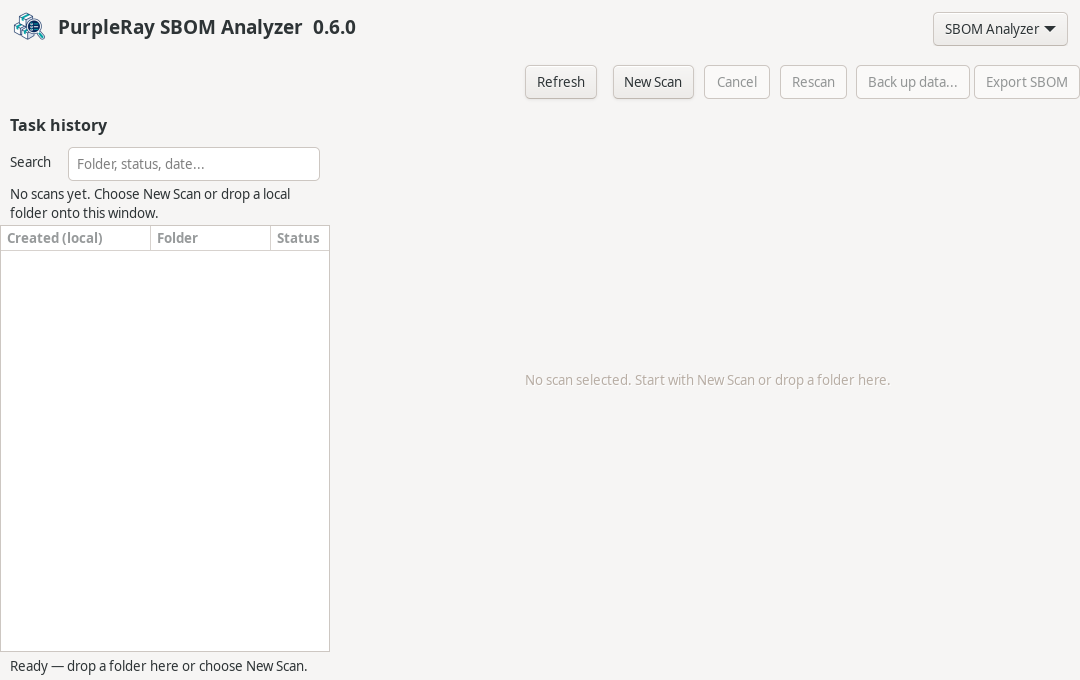
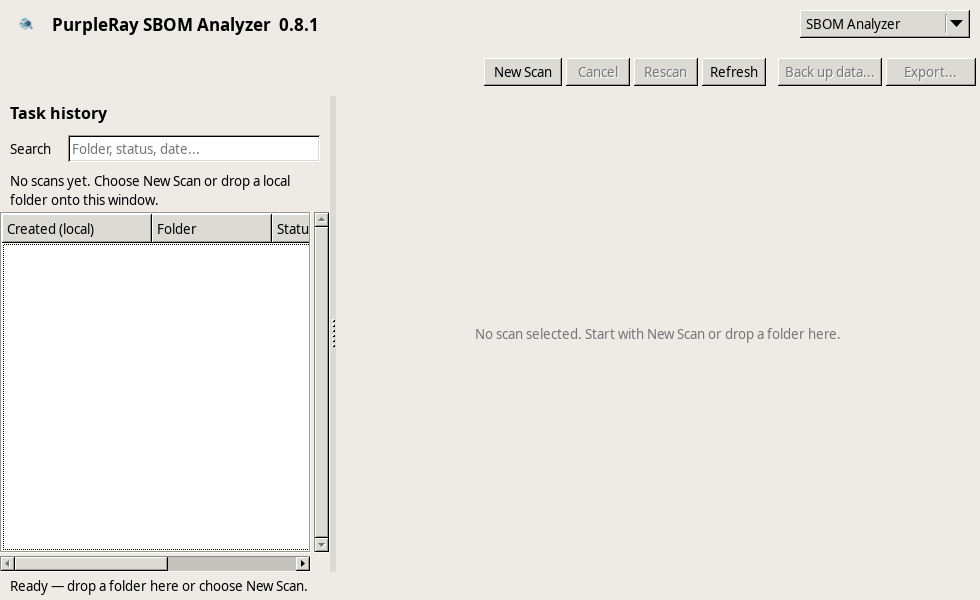
fix: update ui

diff --git a/README.md b/README.md
@@ -9,7 +9,7 @@ after the inventory SBOM has been written; it is unchecked again every time.
 Its native parsers read each artifact through one verified, size-bounded input;
 the application never downloads or requires a separate scanner.
 
-Published builds support Windows x64 and Linux x64 (GTK3), including Linux
+Published builds support Windows x64 and Linux x64 (GTK2), including Linux
 under WSL2 with WSLg. The Cocoa code and packaging are experimental and
 unshipped: macOS has no current release, launcher, or support claim.
 
@@ -39,8 +39,9 @@ package, then install it:
   `sha256sum`, extract it, and run the executable from the extracted directory.
 - **WSL2:** use the Linux tar package from a WSL2 distribution with WSLg.
 
-The Linux build requires x86-64, glibc 2.34 or newer, GTK3, and a working
-Wayland or X11 display. The optional online OSV.dev check additionally needs
+The Linux build requires x86-64, glibc 2.34 or newer, GTK2, and a working X11
+display. WSLg supplies that display through its XWayland compatibility layer.
+The optional online OSV.dev check additionally needs
 the OpenSSL 3 runtime and a system CA certificate store; the Debian package
 declares those dependencies. WSL2 additionally requires WSLg. macOS builds are
 not currently shipped.
@@ -342,11 +343,11 @@ clean bill of health.
 
 The reproducible CI toolchain is Free Pascal 3.2.2 and Lazarus 4.8. On a clean
 Ubuntu x64 WSL2 installation, install the same official Lazarus release and the
-GTK3 development headers with:
+GTK2 development headers with:
 
 ```bash
 sudo apt-get update
-sudo apt-get install --yes ca-certificates curl libgtk-3-dev
+sudo apt-get install --yes ca-certificates curl libgtk2.0-dev
 
 toolchain_directory=$(mktemp -d)
 cd "$toolchain_directory"
@@ -380,7 +381,7 @@ The explicit equivalent build command is:
 ```bash
 lazbuild -B \
   --build-mode=Release \
-  --widgetset=gtk3 \
+  --widgetset=gtk2 \
   src/purpleray_sbom_analyzer.lpi
 ```
 
@@ -391,8 +392,8 @@ WSLg with:
 build/release/purpleray-sbom-analyzer
 ```
 
-WSLg normally sets `WAYLAND_DISPLAY` and `DISPLAY` automatically. If neither is
-present, update WSL from Windows with `wsl --update`, restart it with
+WSLg normally sets `DISPLAY` for its XWayland bridge automatically. If it is
+absent, update WSL from Windows with `wsl --update`, restart it with
 `wsl --shutdown`, and open the WSL workspace again.
 
 To use the Lazarus IDE, open the repository through VS Code's **WSL: Open Folder
@@ -402,7 +403,9 @@ in WSL** command, then run:
 lazarus src/purpleray_sbom_analyzer.lpi
 ```
 
-Select the GTK3 widgetset for a Linux build. The lightweight application shell,
+Select the GTK2 widgetset for a Linux build. This is the supported Linux/WSL2
+target because it avoids the Lazarus GTK3 Wayland scaling and native-dialog
+failures seen under WSLg. The lightweight application shell,
 SBOM Analyzer workspace, Compare Scans workspace, and scan-settings dialog are
 stored as the human-readable `src/uMainForm.lfm`,
 `src/uSBOMAnalyzerFrame.lfm`, `src/uCompareScansFrame.lfm`, and
@@ -769,8 +772,9 @@ appropriately using the citation above.
   provenance, but they do not establish a trusted Windows publisher.
 - The Cocoa target remains experimental source scaffolding. There is no current
   macOS build, release, launcher, signing/notarization, or support commitment.
-- Lazarus's GTK3 backend can emit non-fatal layout diagnostics with some GTK
-  themes or WSLg versions; these do not indicate that scanning has failed.
+- Linux and WSL2 releases use Lazarus's GTK2 backend. GTK3 builds are not a
+  supported release target because current Lazarus GTK3/WSLg combinations can
+  mis-scale windows, hide modal file choosers, and emit backend criticals.
 - Shared-library analysis is static. Direct declarations are read from ELF,
   PE, and Mach-O binaries, but the scanner does not invoke a loader, execute
   targets, resolve libraries to host-specific absolute paths, or infer every

diff --git a/docs/sprints/sprint-08-advanced-analysis.md b/docs/sprints/sprint-08-advanced-analysis.md
@@ -106,3 +106,47 @@ Until those rows are closed with exact evidence, Sprint 8 must not be labelled
 fully accepted or released. Point-in-time OSV matches remain non-exploitability
 advisory evidence, BSI output remains readiness-only, and macOS/signing/WinGet
 submission remain outside this acceptance claim.
+
+## 2026-08-21 WSL2 UI correction candidate
+
+This later maintenance run invalidated the historical GTK3 UI acceptance
+claim. A real WSLg launch on the current mixed-DPI desktop reproduced the
+operator report before any fix:
+
+- Lazarus 4.8 GTK3 reported 170 runtime PPI for the 96-PPI LFM and realized the
+  1080×680 shell as 1452×921 on a 1440×900 logical monitor.
+- startup emitted the reported GLib, Gtk, and Gdk criticals in Lazarus GTK3
+  widget internals;
+- New Scan entered the expected modal loop, but its 1096×822 folder chooser
+  had no transient parent. The blocked main form could therefore appear hung
+  when WSLg placed the chooser behind it or on another monitor.
+
+The candidate correction changes the supported Linux build to Lazarus GTK2 on
+X11/XWayland, reduces the main design to 980×600 with a 720×440 minimum, and
+keeps GTK3 only as an unsupported manual build target. The measured WSLg shell
+is 32.5% narrower and 34.9% shorter than the failing realized window.
+
+Local validation on Lazarus 4.8 and FPC 3.2.2 completed the following against
+the corrected working tree:
+
+- GTK2 Release build: pass; the executable links `libgtk-x11-2.0.so.0` and not
+  `libgtk-3.so.0`.
+- WSLg at normal scale and `GDK_SCALE=2`: exact 980×600 shell; no implicit
+  scaling, clipping, or maximization.
+- real pointer New Scan flow: 780×585 transient-parented chooser, Cancel,
+  immediate reopen, folder selection, 620×500 transient settings dialog,
+  Start scan, persisted completed history/SBOM, Analyzer/Compare switching,
+  and responsive controls after completion.
+- the same production flow under `G_DEBUG=fatal-warnings`: zero stderr
+  diagnostics; no GLib, Gtk, or Gdk warning/critical was tolerated.
+- permanent Linux suite: 86 registered, 85 passed, 0 failed, 1 Windows-only
+  skip.
+- Linux packaging: pass with the declared portable dependency
+  `libgtk2.0-0`; packaging rejects an accidentally GTK3-linked binary.
+- version consistency: root, Pascal fallback, and Lazarus metadata all report
+  `0.8.1`.
+
+The privacy-safe application screenshot was refreshed to the measured compact
+shell. This section records local candidate evidence only. Delivery still
+requires a commit and push, and the native Windows/CI matrix must pass before
+the correction can close Sprint 8 acceptance or support a release.

diff --git a/docs/sprints/README.md b/docs/sprints/README.md
@@ -24,7 +24,7 @@ is not treated as a pass.
 | 5 | Scan comparison | Accepted and released | [`v0.6.0`](https://github.com/aidamian/PurpleRay_SBOM_Analyzer/releases/tag/v0.6.0) | [Sprint 5](sprint-05-scan-comparison.md) |
 | 6 | CLI and distribution | Accepted; its proposed release failed before publication | First published together with Sprint 7 in `v0.7.1` | [Sprint 6](sprint-06-cli-distribution.md) |
 | 7 | Scanner depth | Accepted and released | [`v0.7.1`](https://github.com/aidamian/PurpleRay_SBOM_Analyzer/releases/tag/v0.7.1) | [Sprint 7](sprint-07-scanner-depth.md) |
-| 8 | Opt-in OSV analysis and evidence completion | Delivered to `main`; final acceptance evidence incomplete | `VERSION=0.8.0`, but no `v0.8.0` tag or release existed at audit time | [Sprint 8](sprint-08-advanced-analysis.md) |
+| 8 | Opt-in OSV analysis and evidence completion | Delivered to `main`; a WSL2 UI correction is locally validated but not yet committed | Unreleased `0.8.x`; current `VERSION=0.8.1` has no matching tag or release | [Sprint 8](sprint-08-advanced-analysis.md) |
 
 ## Evidence rules
 
@@ -53,7 +53,9 @@ is not treated as a pass.
 - Sprint 8's ignored handoff was stale after the implementation was pushed: it
   still described `VERSION=0.7.1` and pending delivery. The tracked record now
   reflects commit `51915ce` and `VERSION=0.8.0`, while retaining the unresolved
-  final acceptance rows.
+  final acceptance rows. A later WSL2 UI correction is recorded separately in
+  the Sprint 8 file and remains a candidate until it has an immutable commit
+  and CI result.
 
 Future work should update the applicable sprint file in the same change that
 closes an evidence gap or publishes a release. Do not replace a gap with an
